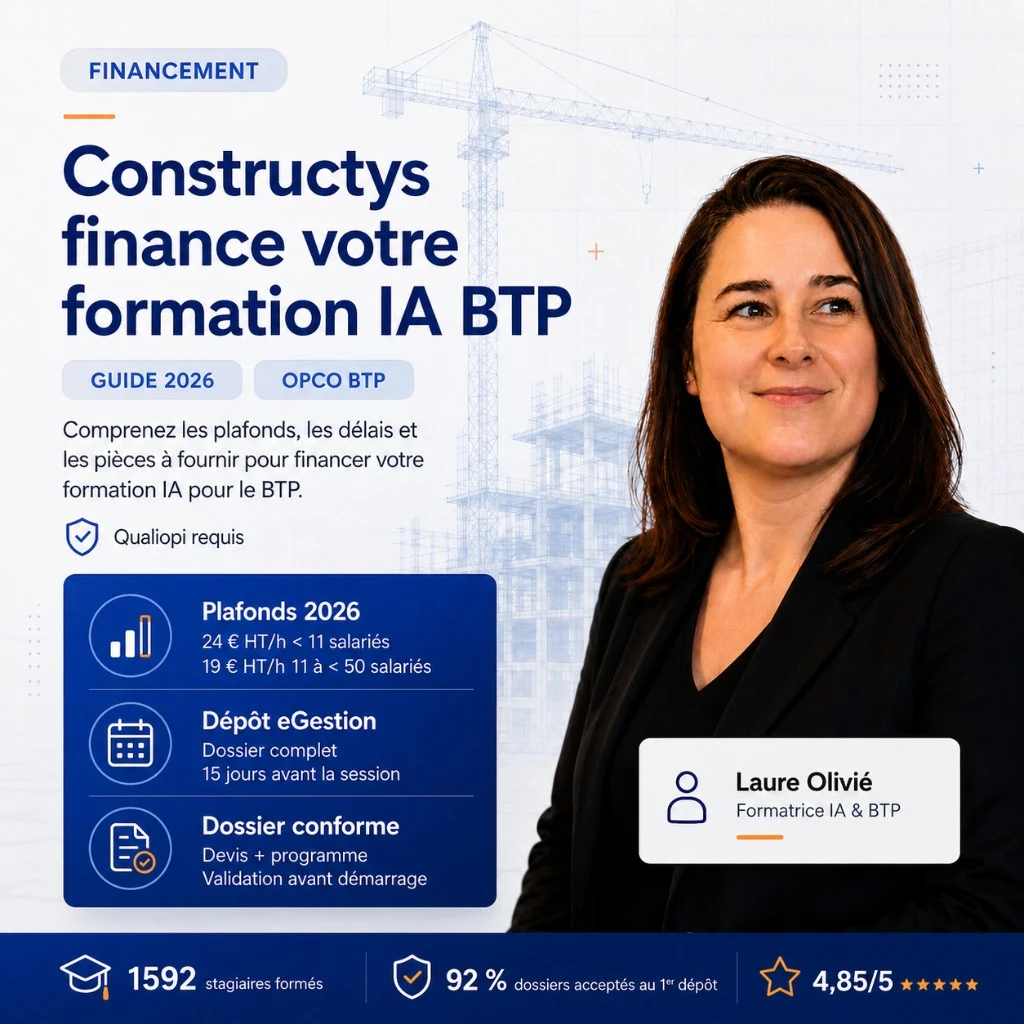
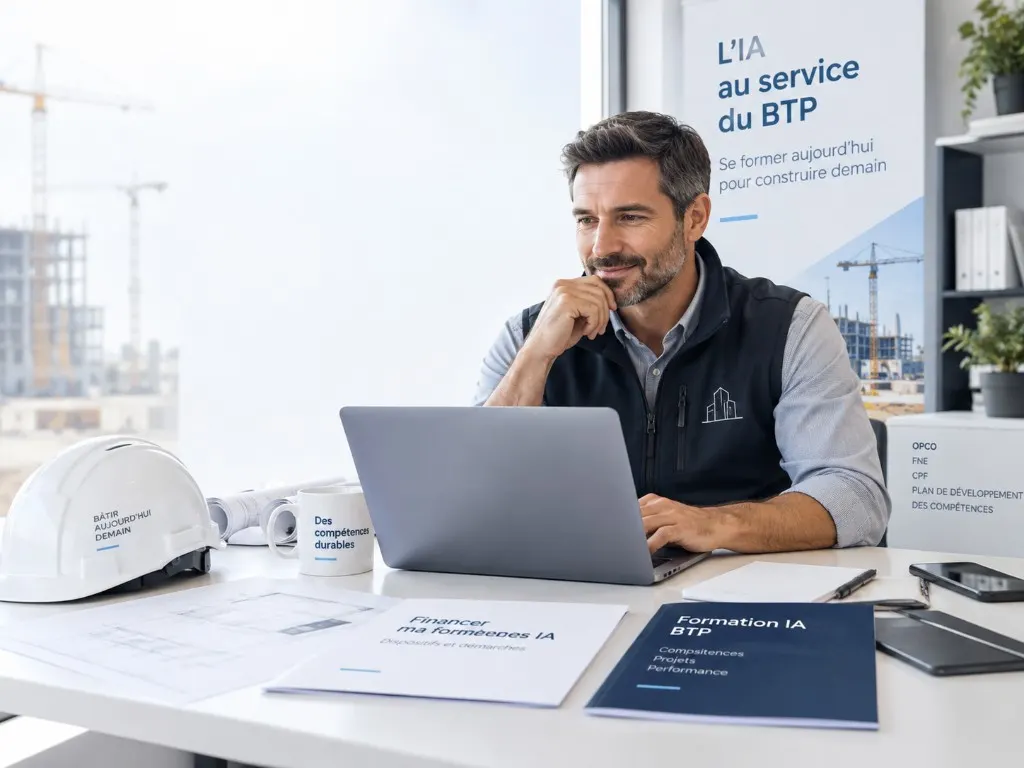
Illustre la page financement Constructys avec des visuels SEO.
Hero, étapes et essentiel : ALT/title/description et ImageObject alignés.

diff --git a/components/financement/FinancementConstructysHero.tsx b/components/financement/FinancementConstructysHero.tsx
@@ -1,8 +1,10 @@
+import Image from 'next/image';
 import Link from 'next/link';
 import { ArrowRight, Calendar, FileText } from 'lucide-react';
 import { Badge } from '@/components/ui/Badge';
 import { LINKS } from '@/lib/internal-links';
 import { FINANCEMENT_PAGE_H1 } from '@/lib/financement-constructys-page-config';
+import { PHOTOS } from '@/lib/photos';
 import {
   OFC_CTA_PRIMARY,
   OFC_CTA_SECONDARY,
@@ -15,39 +17,62 @@ import { OFC_SEC } from '@/lib/ofc-section-classes';
 const ANCHOR_ETAPES = '#etapes-financement';
 
 export function FinancementConstructysHero() {
+  const photo = PHOTOS.financementConstructysHero2026;
+
   return (
     <section
       className={`${OFC_SEC.hero} relative overflow-hidden`}
       aria-labelledby="financement-hero-title"
     >
-      <div className="relative mx-auto max-w-[48rem] text-center">
-        <Badge className="mx-auto">Financement OPCO · Constructys · 2026</Badge>
-        <h1 id="financement-hero-title" className={`${OFC_TYPE_HERO} mt-5`}>
-          {FINANCEMENT_PAGE_H1}
-        </h1>
-        <p className={`${OFC_TYPE_LEAD} mx-auto mt-5 max-w-2xl text-ofc-ink-muted`}>
-          Plafonds, délai de dépôt, reste à charge et nouveau circuit de remboursement à compter du
-          1<sup>er</sup> octobre 2026.
-        </p>
-        <p className="mt-3 text-sm font-medium text-ofc-ink-subtle">
-          OFC certifié Qualiopi · Programme et devis fournis · Île-de-France
-        </p>
-        <div className="mt-8 flex flex-col items-stretch justify-center gap-3 sm:flex-row sm:items-center">
-          <Link
-            href={LINKS.contact}
-            className={`${OFC_CTA_PRIMARY} inline-flex min-h-11 items-center justify-center gap-2 px-6 py-3`}
-          >
-            <FileText className="h-5 w-5 shrink-0" aria-hidden />
-            Demander un devis
-          </Link>
-          <a
-            href={ANCHOR_ETAPES}
-            className={`${OFC_CTA_SECONDARY} inline-flex min-h-11 items-center justify-center gap-2 px-6 py-3`}
-          >
-            Vérifier les étapes
-            <ArrowRight className="h-5 w-5 shrink-0" aria-hidden />
-          </a>
+      <div className="relative mx-auto grid max-w-[80rem] items-center gap-10 lg:grid-cols-[minmax(0,1fr)_minmax(280px,420px)] lg:gap-14">
+        <div className="min-w-0 text-center lg:text-left">
+          <Badge className="mx-auto lg:mx-0">Financement OPCO · Constructys · 2026</Badge>
+          <h1 id="financement-hero-title" className={`${OFC_TYPE_HERO} mt-5`}>
+            {FINANCEMENT_PAGE_H1}
+          </h1>
+          <p className={`${OFC_TYPE_LEAD} mx-auto mt-5 max-w-2xl text-ofc-ink-muted lg:mx-0`}>
+            Plafonds, délai de dépôt, reste à charge et nouveau circuit de remboursement à compter du
+            1<sup>er</sup> octobre 2026.
+          </p>
+          <p className="mt-3 text-sm font-medium text-ofc-ink-subtle">
+            OFC certifié Qualiopi · Programme et devis fournis · Île-de-France
+          </p>
+          <div className="mt-8 flex flex-col items-stretch justify-center gap-3 sm:flex-row sm:items-center lg:justify-start">
+            <Link
+              href={LINKS.contact}
+              className={`${OFC_CTA_PRIMARY} inline-flex min-h-11 items-center justify-center gap-2 px-6 py-3`}
+            >
+              <FileText className="h-5 w-5 shrink-0" aria-hidden />
+              Demander un devis
+            </Link>
+            <a
+              href={ANCHOR_ETAPES}
+              className={`${OFC_CTA_SECONDARY} inline-flex min-h-11 items-center justify-center gap-2 px-6 py-3`}
+            >
+              Vérifier les étapes
+              <ArrowRight className="h-5 w-5 shrink-0" aria-hidden />
+            </a>
+          </div>
         </div>
+
+        <figure className="mx-auto w-full max-w-md lg:mx-0 lg:max-w-none">
+          <div className="ofc-card overflow-hidden bg-white/95 p-1.5">
+            <Image
+              src={photo.src}
+              alt={photo.alt}
+              title={photo.title}
+              width={photo.width}
+              height={photo.height}
+              priority
+              className="h-auto w-full rounded-[1.05rem] object-cover"
+              sizes="(max-width: 1024px) 90vw, 420px"
+              quality={75}
+            />
+          </div>
+          <figcaption className="mt-3 text-center text-sm leading-relaxed text-ofc-ink-muted lg:text-left">
+            {photo.description}
+          </figcaption>
+        </figure>
       </div>
     </section>
   );

diff --git a/lib/photos.ts b/lib/photos.ts
@@ -493,13 +493,35 @@ export const PHOTOS = {
     height: 768,
   },
 
-  /** Page financement Constructys — bannière hero plafonds OPCO 2026 */
+  /** Page financement Constructys — hero (préparation dossier / devis OPCO) */
   financementConstructysHero2026: {
     src: '/images/financement-constructys-formation-ia-btp-hero.webp',
-    alt: "Affiche Constructys finance votre formation IA BTP — plafonds 2026 et portrait Laure",
-    title: 'Financement Constructys 2026 — formation IA pour le BTP, plafonds et OFC Qualiopi',
+    alt: 'Dirigeant BTP prépare le financement Constructys d’une formation IA pour le BTP',
+    title: 'Financement Constructys 2026 — plafonds OPCO, devis et dossier eGestion',
+    description:
+      'Professionnel du BTP consulte documents de financement et formation IA : dispositifs Constructys, élaboration du dossier et compétences durables — OFC Qualiopi, présentiel Île-de-France.',
     width: 1024,
-    height: 1024,
+    height: 768,
+  },
+  /** Financement Constructys — checklist OPCO + devis formation */
+  financementConstructysChecklistDevis2026: {
+    src: '/images/financement-constructys-checklist-devis-opco.webp',
+    alt: 'Checklist OPCO et devis formation IA pour le BTP sur ordinateur portable',
+    title: 'Étapes financement : éligibilité, documents, prise en charge et suivi Constructys',
+    description:
+      'Bureau BTP : checklist financement OPCO (éligibilité, documents, demande, suivi) et devis formation IA pour le BTP à télécharger — casque et plans sur le bureau.',
+    width: 1024,
+    height: 768,
+  },
+  /** Financement Constructys — session formation présentiel (illustration partenaires compétences) */
+  financementConstructysSessionFormation2026: {
+    src: '/images/financement-constructys-session-formation-ia-btp.webp',
+    alt: 'Session formation IA pour le BTP en salle — Constructys, compétences BTP',
+    title: 'Formation IA BTP en présentiel — anticipation, formation et accompagnement compétences',
+    description:
+      'Groupe en session formation IA pour le BTP : écran « L’IA au service du BTP », plans sur table et chantier en fond — illustration du partenariat compétences Constructys / OFC Qualiopi.',
+    width: 1024,
+    height: 768,
   },
 
   /** Page d'accueil — hero header (portrait Laure, dashboard IA BTP, manuel formation) */

diff --git a/components/financement/constructys/FinancementEssentielSection.tsx b/components/financement/constructys/FinancementEssentielSection.tsx
@@ -1,4 +1,6 @@
+import { AccueilSectionPhoto } from '@/components/landing/accueil/AccueilSectionPhoto';
 import { FINANCEMENT_BAREMES_NOTE } from '@/lib/financement-constructys-page-config';
+import { PHOTOS } from '@/lib/photos';
 import { OFC_CARD, OFC_TYPE_H2, OFC_TYPE_H3 } from '@/lib/ofc-interaction-classes';
 
 const ESSENTIEL = [
@@ -25,11 +27,18 @@ const ESSENTIEL = [
 ] as const;
 
 export function FinancementEssentielSection() {
+  const photo = PHOTOS.financementConstructysSessionFormation2026;
+
   return (
     <section aria-labelledby="essentiel-title" className="scroll-mt-24">
       <h2 id="essentiel-title" className={OFC_TYPE_H2}>
         L’essentiel en 30 secondes
       </h2>
+      <AccueilSectionPhoto
+        photo={photo}
+        className="mx-auto mt-8 max-w-3xl"
+        caption="Formation IA pour le BTP en présentiel : le financement Constructys accompagne les compétences, sous réserve d’éligibilité."
+      />
       <ul className="mt-8 grid gap-5 sm:grid-cols-2">
         {ESSENTIEL.map((item) => (
           <li key={item.titre} className={`${OFC_CARD} p-6`}>

diff --git a/components/financement/constructys/FinancementEtapesSection.tsx b/components/financement/constructys/FinancementEtapesSection.tsx
@@ -1,12 +1,21 @@
+import { AccueilSectionPhoto } from '@/components/landing/accueil/AccueilSectionPhoto';
 import { FINANCEMENT_ETAPES } from '@/lib/financement-constructys-page-config';
+import { PHOTOS } from '@/lib/photos';
 import { OFC_TYPE_H2 } from '@/lib/ofc-interaction-classes';
 
 export function FinancementEtapesSection() {
+  const photo = PHOTOS.financementConstructysChecklistDevis2026;
+
   return (
     <section id="etapes-financement" aria-labelledby="etapes-title" className="scroll-mt-24">
       <h2 id="etapes-title" className={OFC_TYPE_H2}>
         Comment demander la prise en charge ?
       </h2>
+      <AccueilSectionPhoto
+        photo={photo}
+        className="mx-auto mt-8 max-w-3xl"
+        caption="Checklist OPCO et devis : préparez les pièces avant le dépôt eGestion (15 jours calendaires minimum)."
+      />
       <ol className="mt-8 grid gap-5 sm:grid-cols-2">
         {FINANCEMENT_ETAPES.map((etape) => (
           <li key={etape.n} className="ofc-process-step">

diff --git a/app/financement-constructys-formation-ia-btp/page.tsx b/app/financement-constructys-formation-ia-btp/page.tsx
@@ -5,6 +5,7 @@ import {
   FINANCEMENT_PAGE_META_DESCRIPTION,
   FINANCEMENT_PAGE_META_TITLE,
 } from '@/lib/financement-constructys-page-config';
+import { PHOTOS } from '@/lib/photos';
 import {
   FinancementConstructysHero,
   FinancementConstructysCta,
@@ -23,6 +24,8 @@ import { AllerPlusLoin } from '@/components/AllerPlusLoin';
 import { LINKS } from '@/lib/internal-links';
 import Link from 'next/link';
 
+const HERO = PHOTOS.financementConstructysHero2026;
+
 export const metadata = createPageMetadata({
   title: FINANCEMENT_PAGE_META_TITLE,
   titleAbsolute: FINANCEMENT_PAGE_META_TITLE,
@@ -33,6 +36,12 @@ export const metadata = createPageMetadata({
   appendAuthorSuffix: false,
   openGraphTitle: FINANCEMENT_PAGE_META_TITLE,
   openGraphDescription: FINANCEMENT_PAGE_META_DESCRIPTION,
+  image: {
+    url: HERO.src,
+    width: HERO.width,
+    height: HERO.height,
+    alt: HERO.alt,
+  },
 });
 
 export default function FinancementConstructysPage() {

diff --git a/lib/schema-financement-constructys-page.ts b/lib/schema-financement-constructys-page.ts
@@ -8,6 +8,7 @@ import { getPillarPageContentUpdatedAt } from '@/lib/content-updated-at';
 import { SCHEMA_CONTACT, SCHEMA_GEO } from '@/lib/schema-constants';
 import { SITE_CONFIG, getArticleSchema, getFAQSchema } from '@/lib/seo';
 import { buildFinancementConstructysImageObjectJsonLd } from '@/lib/schema-image-objects';
+import { PHOTOS } from '@/lib/photos';
 import {
   FINANCEMENT_ETAPES,
   FINANCEMENT_PAGE_H1,
@@ -42,7 +43,7 @@ export function getFinancementConstructysUnifiedJsonLd(): Record<string, unknown
     datePublished: '2026-01-15',
     dateModified: getPillarPageContentUpdatedAt('/financement-constructys-formation-ia-btp'),
     authorName: SITE_CONFIG.name,
-    image: '/images/financement-constructys-formation-ia-btp-hero.webp',
+    image: PHOTOS.financementConstructysHero2026.src,
   });
   const article = stripJsonLdContext(articleRaw as Record<string, unknown>);
   article['@id'] = `${pageUrl}#article`;

diff --git a/lib/schema-image-objects.ts b/lib/schema-image-objects.ts
@@ -179,10 +179,8 @@ export function buildFinancementConstructysImageObjectJsonLd() {
     url: contentUrl,
     contentUrl,
     name: p.alt,
-    caption:
-      p.title ??
-      'Financement Constructys / OPCO possible selon éligibilité — formation IA pour le BTP, OFC Qualiopi.',
-    description: p.alt,
+    caption: p.title,
+    description: p.description ?? p.alt,
     creditText: HOME_HERO_IMAGE_CREDIT,
     license: `${base}/mentions-legales`,
     acquireLicensePage: `${base}/contact`,
